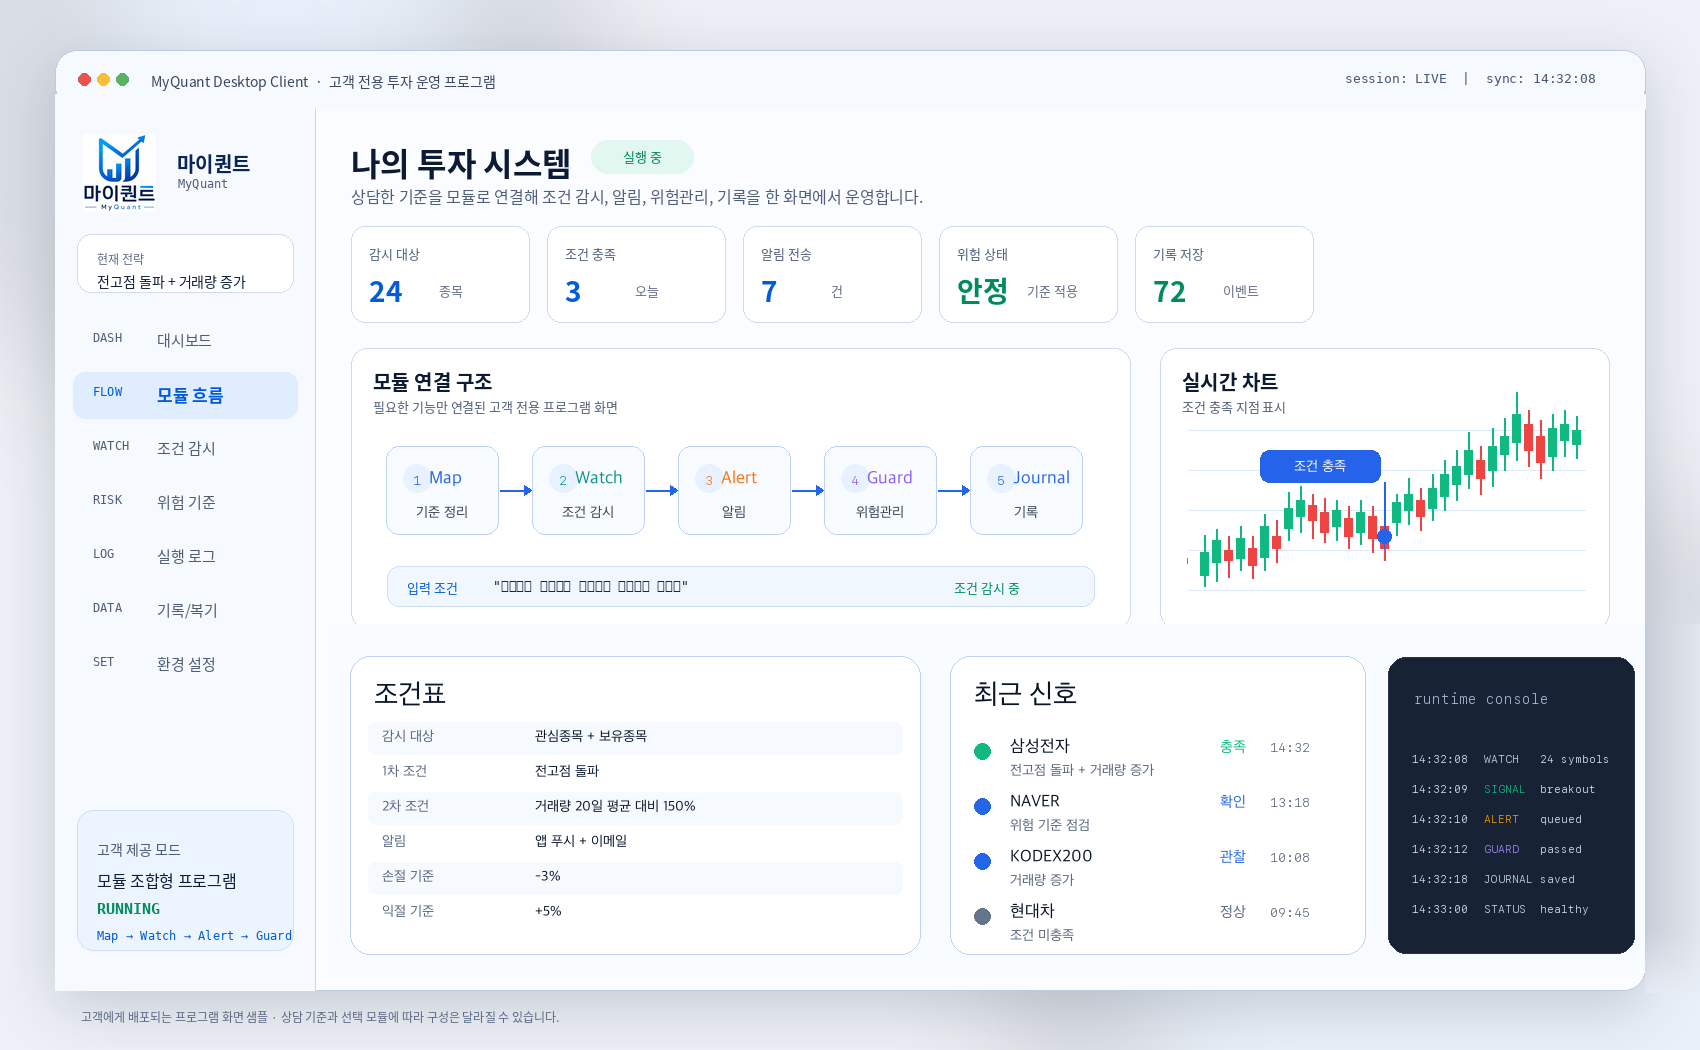
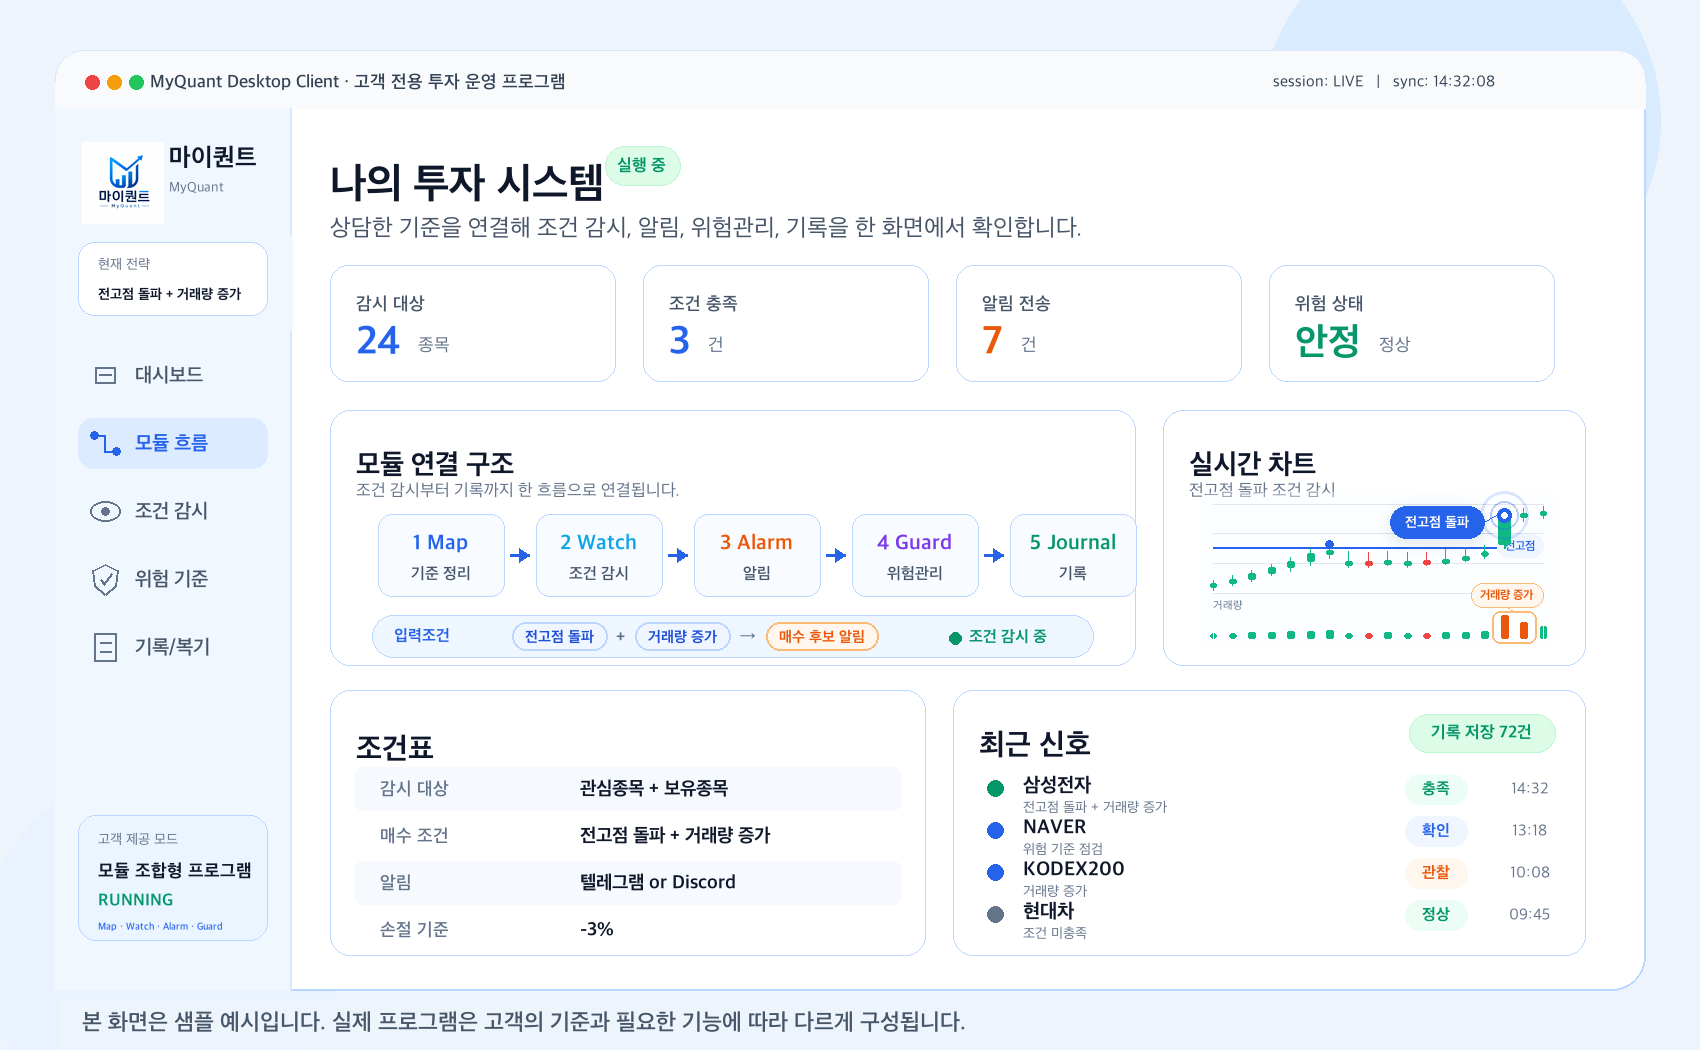
Add files via upload

diff --git a/home-v2.css b/home-v2.css
@@ -56,16 +56,20 @@ img {
 .mq-header {
   position: sticky;
   top: 0;
-  z-index: 200;
-  background: rgba(255, 255, 255, 0.88);
-  border-bottom: 1px solid rgba(223, 232, 247, 0.9);
-  backdrop-filter: blur(18px);
+  z-index: 1000;
+  background: rgba(255, 255, 255, 0.92);
+  border-bottom: 1px solid rgba(191, 219, 254, 0.8);
+  backdrop-filter: blur(12px);
+  -webkit-backdrop-filter: blur(12px);
   box-shadow: none;
+  transition: background 0.22s ease, box-shadow 0.22s ease, border-color 0.22s ease;
 }
 
-.mq-header.scrolled {
+.mq-header.scrolled,
+.mq-header.is-scrolled {
   background: rgba(255, 255, 255, 0.96);
-  box-shadow: 0 10px 30px rgba(15, 23, 42, 0.07);
+  border-bottom-color: rgba(191, 219, 254, 0.95);
+  box-shadow: 0 8px 24px rgba(15, 23, 42, 0.08);
 }
 
 .mq-nav {
@@ -1858,6 +1862,83 @@ img {
   line-height: 1;
 }
 
+.mq-preview-condition-flow {
+  min-width: 0;
+  display: flex;
+  align-items: center;
+  gap: 10px;
+  padding: 10px 14px;
+  border-radius: 14px;
+  background: #f8fbff;
+  border: 1px solid rgba(191, 219, 254, 0.82);
+}
+
+.mq-preview-condition-label {
+  flex: 0 0 auto;
+  color: #1d4ed8;
+  font-size: 12px;
+  line-height: 1;
+  font-weight: 900;
+}
+
+.mq-preview-condition-chips {
+  min-width: 0;
+  display: flex;
+  flex: 1 1 auto;
+  flex-wrap: wrap;
+  align-items: center;
+  gap: 6px;
+}
+
+.mq-preview-condition-chips b {
+  color: #64748b;
+  font-size: 12px;
+  line-height: 1;
+  font-weight: 800;
+}
+
+.mq-preview-condition-chip {
+  min-height: 25px;
+  display: inline-flex;
+  align-items: center;
+  justify-content: center;
+  padding: 0 10px;
+  border-radius: 999px;
+  background: #eff6ff;
+  border: 1px solid #bfdbfe;
+  color: #1d4ed8;
+  font-size: 11.5px;
+  line-height: 1;
+  font-weight: 850;
+  white-space: nowrap;
+}
+
+.mq-preview-condition-chip-alert {
+  background: #fff7ed;
+  border-color: #fdba74;
+  color: #ea580c;
+}
+
+.mq-preview-condition-status {
+  flex: 0 0 auto;
+  display: inline-flex;
+  align-items: center;
+  gap: 5px;
+  color: #059669;
+  font-size: 11.5px;
+  line-height: 1;
+  font-weight: 900;
+  white-space: nowrap;
+}
+
+.mq-preview-condition-status i {
+  width: 7px;
+  height: 7px;
+  border-radius: 999px;
+  background: #10b981;
+  box-shadow: 0 0 0 4px rgba(16, 185, 129, 0.12);
+}
+
 .mq-preview-workspace {
   min-width: 0;
   display: grid;
@@ -2465,6 +2546,31 @@ img {
     font-size: 15px;
   }
 
+  .mq-preview-condition-flow {
+    display: grid;
+    grid-template-columns: 1fr;
+    gap: 8px;
+    padding: 12px;
+  }
+
+  .mq-preview-condition-label {
+    font-size: 12px;
+  }
+
+  .mq-preview-condition-chips {
+    gap: 6px;
+  }
+
+  .mq-preview-condition-chip {
+    min-height: 28px;
+    padding: 0 10px;
+    font-size: 11.5px;
+  }
+
+  .mq-preview-condition-status {
+    font-size: 11.5px;
+  }
+
   .mq-preview-desktop-only {
     display: none !important;
   }
@@ -2878,8 +2984,8 @@ body {
 }
 
 .mq-header {
-  background: rgba(255, 255, 255, 0.82);
-  border-bottom-color: rgba(219, 227, 239, 0.82);
+  background: rgba(255, 255, 255, 0.92);
+  border-bottom-color: rgba(191, 219, 254, 0.8);
 }
 
 .mq-nav {
@@ -9327,6 +9433,49 @@ body {
   }
 }
 
+/* Mobile puzzle fit: keep the small pieces interlocked like the desktop row. */
+@media (max-width: 720px) {
+  .mq-flow-section .puzzle-flow__row--sub {
+    display: flex;
+    flex-wrap: wrap;
+    align-items: center;
+    justify-content: center;
+    gap: 8px 0;
+    overflow: visible;
+  }
+
+  .mq-flow-section .puzzle-flow__row--sub .puzzle-flow__text {
+    flex: 0 0 100%;
+    width: 100%;
+    margin: 0;
+    text-align: center;
+  }
+
+  .mq-flow-section .puzzle-flow__row--sub .puzzle-piece--small {
+    width: 124px;
+    height: 78px;
+  }
+
+  .mq-flow-section .puzzle-flow__row--sub .puzzle-piece--middle,
+  .mq-flow-section .puzzle-flow__row--sub .puzzle-piece--end {
+    margin-left: -38px;
+  }
+
+  .mq-flow-section .puzzle-flow__row--sub .puzzle-piece__shape path {
+    stroke-width: 2.2;
+  }
+
+  .mq-flow-section .puzzle-flow__row--sub .puzzle-piece__content {
+    gap: 4px;
+    padding: 0 18px;
+  }
+
+  .mq-flow-section .puzzle-flow__row--sub .puzzle-piece--middle .puzzle-piece__content,
+  .mq-flow-section .puzzle-flow__row--sub .puzzle-piece--end .puzzle-piece__content {
+    transform: translateX(6px);
+  }
+}
+
 /* Keep the bottom process note icon from overlapping longer copy */
 .mq-flow-section .mq-flow-note-single {
   display: flex;
@@ -9853,5 +10002,55 @@ body {
   .mq-flow-section .buy-alert-icon {
     animation: none;
     filter: none;
+  }
+}
+
+/* Fixed top navigation */
+:root {
+  --nav-h: 82px;
+}
+
+html {
+  scroll-padding-top: calc(var(--nav-h) + 18px);
+}
+
+.mq-header {
+  position: fixed;
+  top: 0;
+  right: 0;
+  left: 0;
+  z-index: 1005;
+  width: 100%;
+  background: rgba(255, 255, 255, 0.94);
+  border-bottom: 1px solid rgba(191, 219, 254, 0.8);
+  backdrop-filter: blur(12px);
+  -webkit-backdrop-filter: blur(12px);
+}
+
+.mq-header.is-scrolled,
+.mq-header.scrolled {
+  box-shadow: 0 8px 24px rgba(15, 23, 42, 0.08);
+}
+
+.mq-page {
+  padding-top: var(--nav-h);
+}
+
+.mobile-drawer {
+  z-index: 1004;
+  padding-top: var(--nav-h);
+}
+
+@media (max-width: 720px) {
+  :root {
+    --nav-h: 68px;
+  }
+
+  .mq-nav {
+    min-height: var(--nav-h);
+  }
+
+  .mq-page {
+    padding-top: var(--nav-h);
   }
 }

diff --git a/index.html b/index.html
@@ -68,7 +68,7 @@
     }
   </script>
   <link rel="stylesheet" href="./style.css?v=20260527-1" />
-  <link rel="stylesheet" href="./home-v2.css?v=20260604-77" />
+  <link rel="stylesheet" href="./home-v2.css?v=20260604-82" />
 </head>
 <body id="top">
   <a href="#main-content" class="skip-link">본문으로 바로가기</a>
@@ -479,6 +479,18 @@
                     <span>Alarm</span><b aria-hidden="true" class="mq-preview-desktop-only">→</b>
                     <span class="mq-preview-desktop-only">Guard</span><b aria-hidden="true" class="mq-preview-desktop-only">→</b>
                     <span class="mq-preview-desktop-only">Journal</span>
+                  </div>
+
+                  <div class="mq-preview-condition-flow" aria-label="입력조건과 조건 감시 상태">
+                    <span class="mq-preview-condition-label">입력조건</span>
+                    <div class="mq-preview-condition-chips">
+                      <span class="mq-preview-condition-chip">전고점 돌파</span>
+                      <b aria-hidden="true">+</b>
+                      <span class="mq-preview-condition-chip">거래량 증가</span>
+                      <b aria-hidden="true">→</b>
+                      <span class="mq-preview-condition-chip mq-preview-condition-chip-alert">매수 후보 알림</span>
+                    </div>
+                    <span class="mq-preview-condition-status"><i aria-hidden="true"></i>조건 감시 중</span>
                   </div>
 
                   <div class="mq-preview-workspace">
@@ -984,7 +996,7 @@
         <button type="button" class="mq-sample-modal-close" data-sample-modal-close aria-label="샘플 이미지 닫기">×</button>
       </div>
       <div class="mq-sample-modal-image">
-        <img src="./asset/sample.png?v=20260602-9" alt="MyQuant Desktop Client 고객 전용 투자 운영 프로그램 샘플 화면" loading="lazy" decoding="async" />
+        <img src="./asset/sample.png?v=20260602-22" alt="MyQuant Desktop Client 고객 전용 투자 운영 프로그램 샘플 화면" loading="lazy" decoding="async" />
       </div>
     </div>
   </div>

diff --git a/main.js b/main.js
@@ -21,7 +21,11 @@
       progressBar.style.width = pct + '%';
       progressBar.setAttribute('aria-valuenow', Math.round(pct));
     }
-    if (header)      header.classList.toggle('scrolled', scrollTop > 40);
+    if (header) {
+      const isScrolled = scrollTop > 8;
+      header.classList.toggle('scrolled', isScrolled);
+      header.classList.toggle('is-scrolled', isScrolled);
+    }
     if (backToTop)   backToTop.classList.toggle('visible', scrollTop > 380);
   }
 
